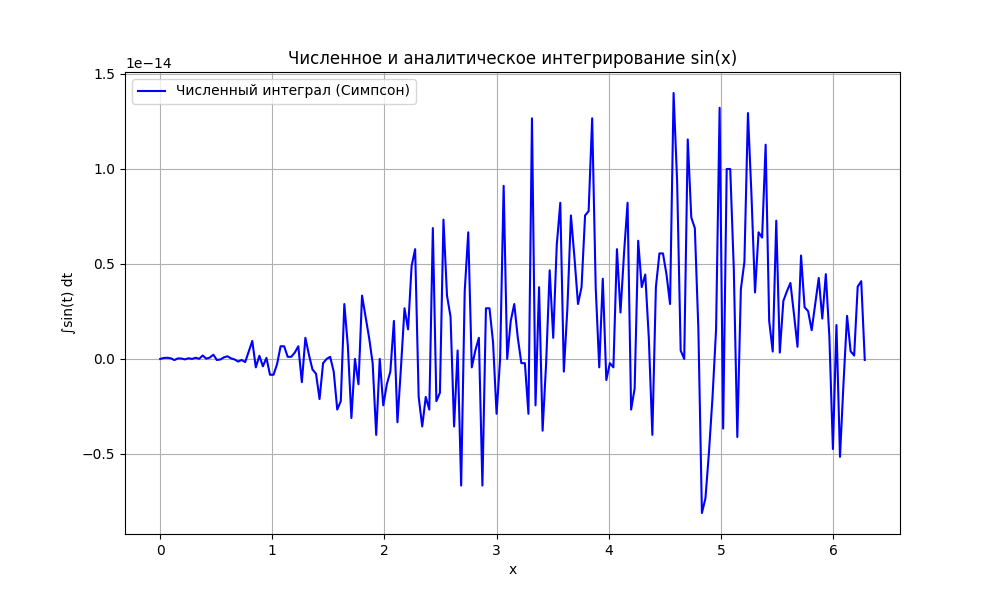
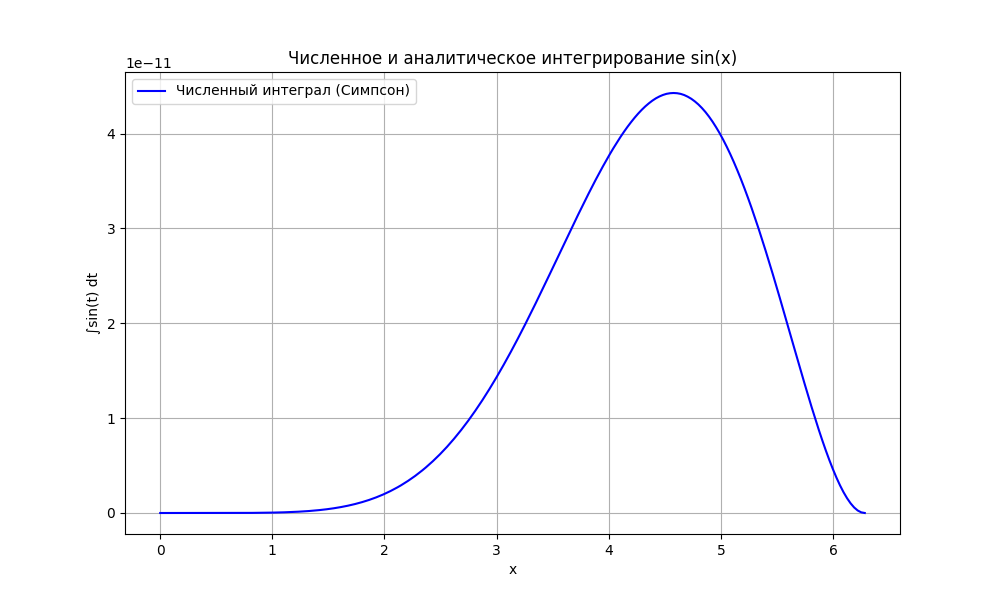
modified:   NUM_INTEGER/num_integer.py 	modified:   NUM_INTEGER/plot.png

diff --git a/NUM_INTEGER/num_integer.py b/NUM_INTEGER/num_integer.py
@@ -18,7 +18,7 @@ def simpson_method(f, a, b, n):
 a = 0
 b_max = 2 * np.pi
 x_vals = np.linspace(a, b_max, 200)
-n = 5000
+n = 500
 
 # Вычисляем интеграл от 0 до x
 simpson_integrals = [simpson_method(f, a, x, n) for x in x_vals]
